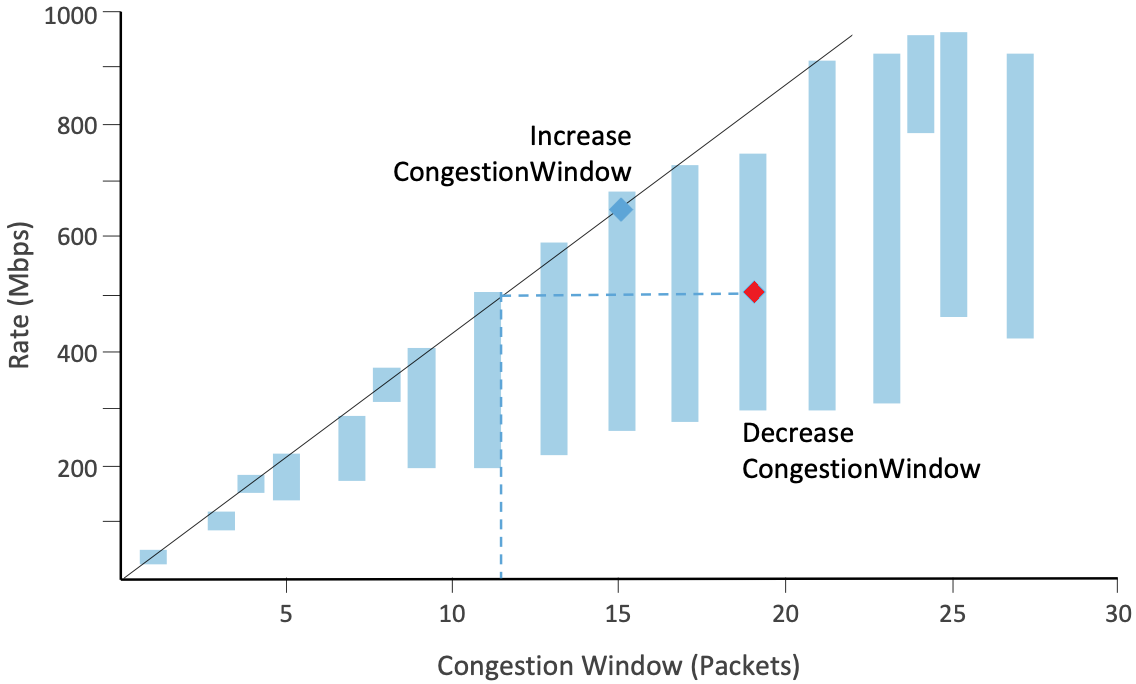
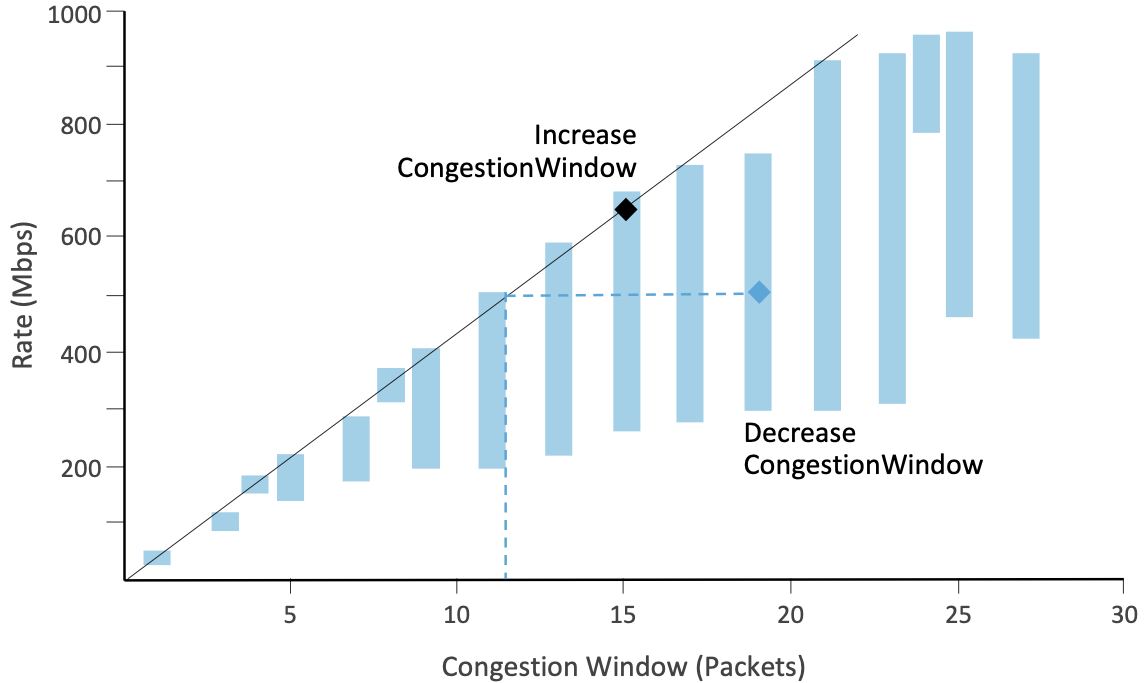
fixed figure source

diff --git a/avoidance.rst b/avoidance.rst
@@ -290,7 +290,7 @@ is that as long as the network is not congested, doubling the amount
 of data we send per RTT should double the rate.
 
 New measurements of ``Rate`` and ``CongestionWindow`` can either fall close to the
-boundary line (blue diamond in the figure) or below (red diamond in the
+boundary line (black diamond in the figure) or below (blue diamond in the
 figure).  A measurement above the line causes NV to automatically
 update the line by increasing its slope so the measurement will fall
 on the new line. If the new measurement is close to the line, then NV
